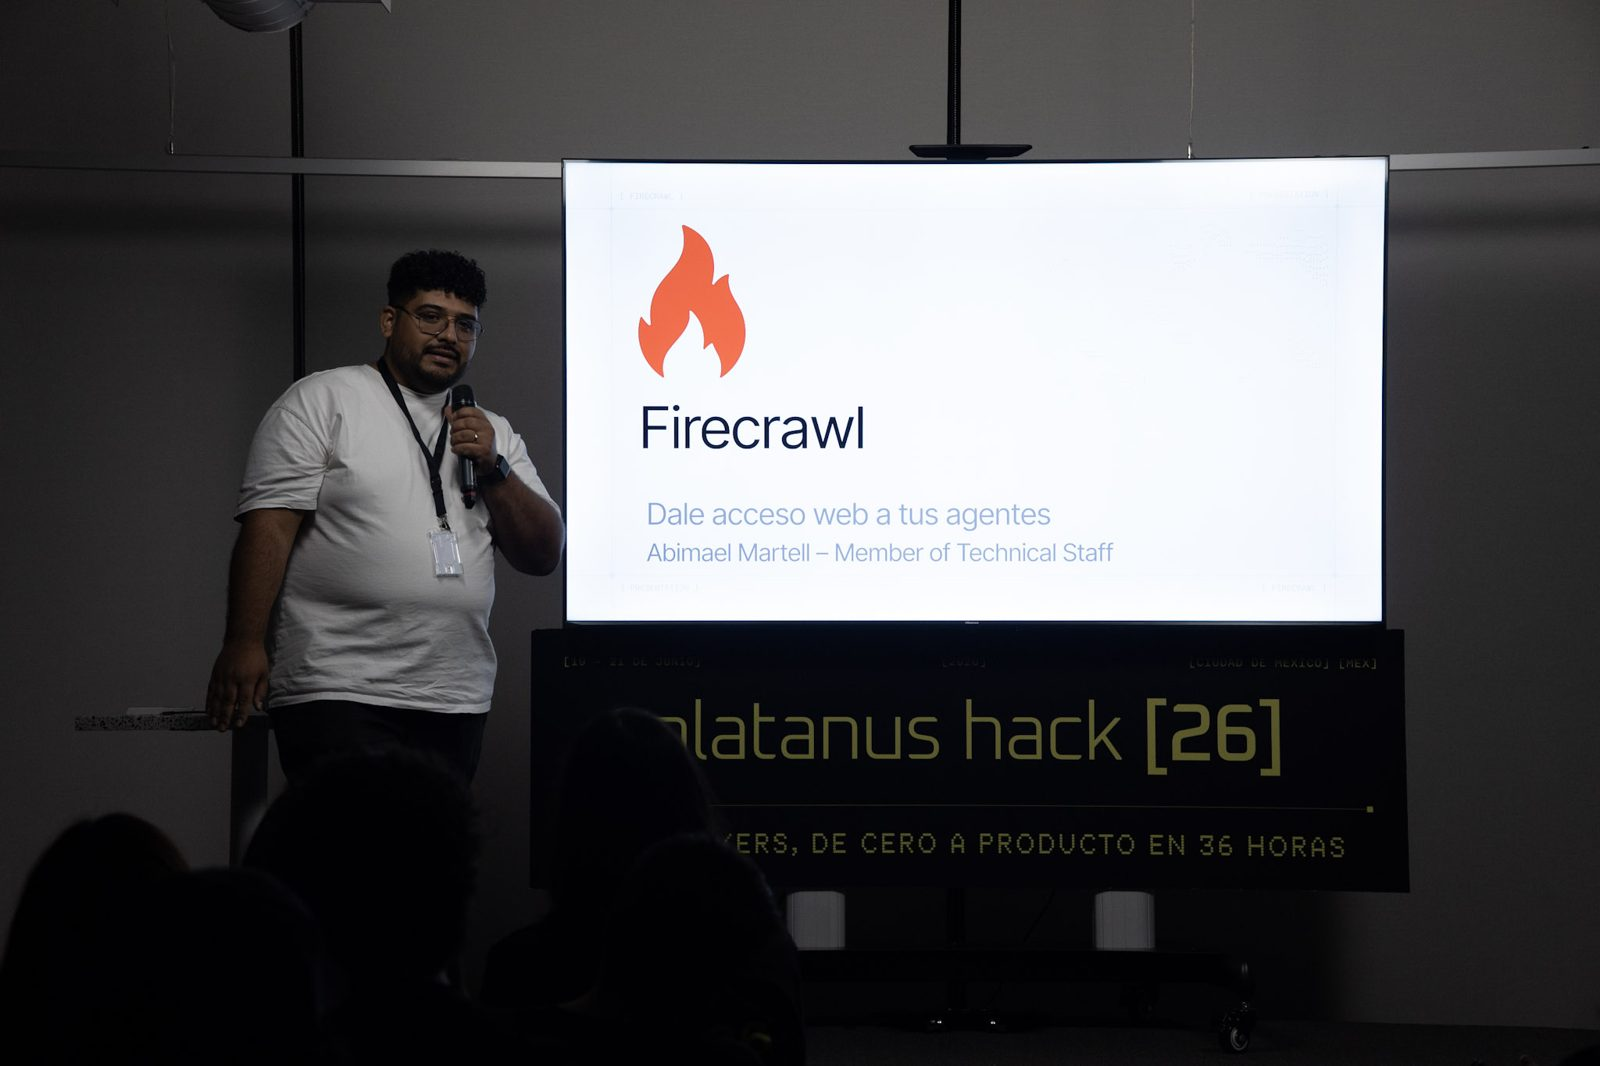
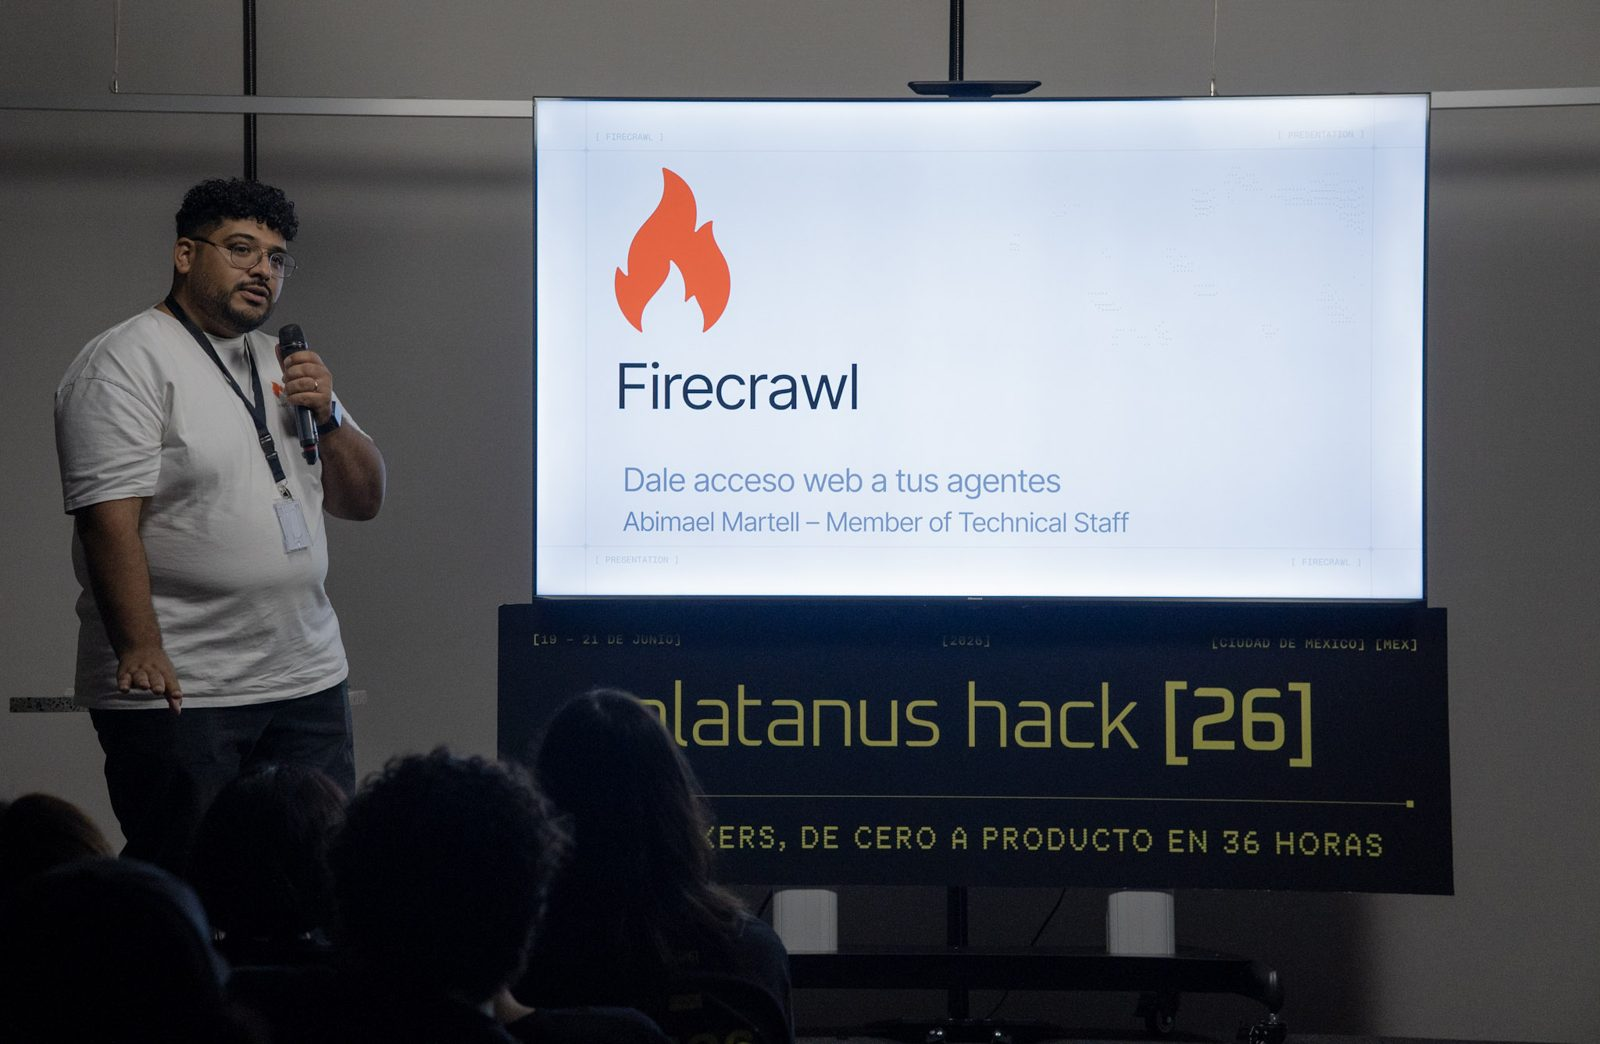
Upgrade stage photos in Platanus Hack post
- Swap the talk pair for the event photographer's daylight shots
  (credited to Platanus)
- Replace homepage feature image with Lightroom-edited version
- Drop unused pitch-build.jpg

diff --git a/_posts/2026-07-20-platanus-hack-firecrawl-mexico-city-2026.md b/_posts/2026-07-20-platanus-hack-firecrawl-mexico-city-2026.md
@@ -54,7 +54,7 @@ Throughout the event I walked the rooms and talked with teams about their ideas 
 
 Which brings me to the thing I cared most about: seeing how teams actually used Firecrawl. It's one thing to build the product; it's another to watch people reach for it under time pressure and bend it toward problems we never anticipated.
 
-![Me on stage opening the Firecrawl talk](/assets/images/platanus-hack-2026/pitch-title.jpg){:.credit-own} ![Walking through what you can build with web data](/assets/images/platanus-hack-2026/pitch-build.jpg)
+![Me on stage giving the Firecrawl talk](/assets/images/platanus-hack-2026/stage-wide.jpg){:.credit-event} ![Mid-gesture during the Firecrawl talk](/assets/images/platanus-hack-2026/stage-portrait.jpg)
 
 *Giving the Firecrawl talk — dale acceso web a tus agentes*
 
